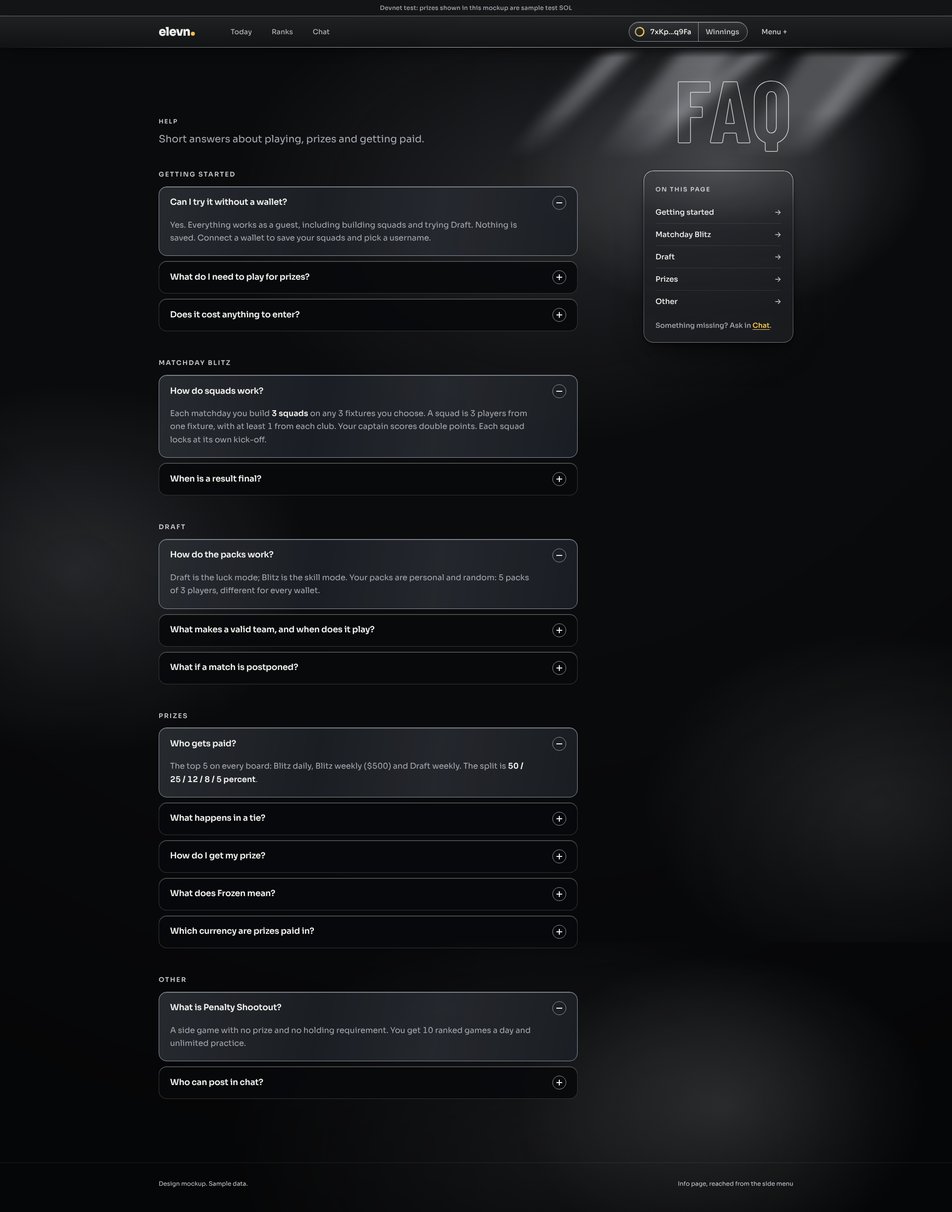
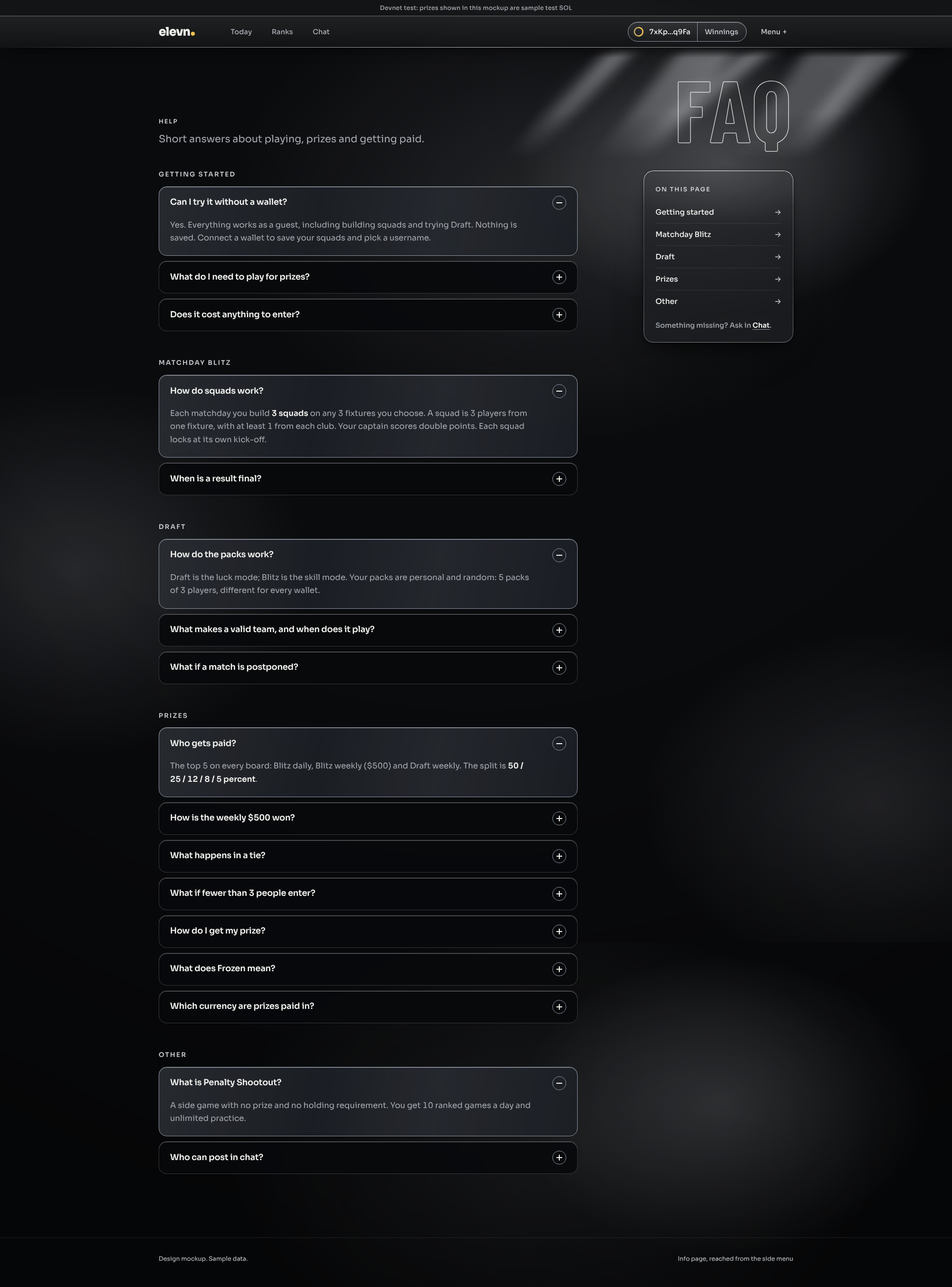
Info pages: apply head review, add side menu
Claude-Session: https://claude.ai/code/session_012GbKymxq8Mwy7J7Kp4CrmR

diff --git a/docs/design/mockups/roadmap.html b/docs/design/mockups/roadmap.html
@@ -2,11 +2,11 @@
 <html lang="en"><head><meta charset="utf-8"><meta name="viewport" content="width=device-width, initial-scale=1">
 <title>Roadmap · elevn mockup</title>
 <link rel="preconnect" href="https://fonts.googleapis.com"><link rel="preconnect" href="https://fonts.gstatic.com" crossorigin>
-<link rel="stylesheet" href="mock.css"><link rel="stylesheet" href="info-pages.css"></head>
+<link rel="stylesheet" href="mock.css"><link rel="stylesheet" href="info-pages.css"><link rel="stylesheet" href="menu.css"><script src="menu.js" defer></script><script src="guest.js" defer></script></head>
 <body>
 <div class="devnet">Devnet test: prizes shown in this mockup are sample test SOL</div>
 <header class="nav"><div class="wrap">
-<a class="logo" href="index.html">elevn<i></i></a>
+<a class="logo" href="home.html">elevn<i></i></a>
 <nav class="links" aria-label="Main"><a href="today.html">Today</a><a href="ranks.html">Ranks</a><a href="chat.html">Chat</a></nav>
 <div class="right"><div class="wchip"><a href="#"><svg width="22" height="22" viewBox="0 0 22 22" role="img" aria-label="Blitz and Draft unlocked"><circle cx="11" cy="11" r="8.5" fill="none" stroke="rgba(255,255,255,.4)" stroke-width="2.5"/><path d="M11 2.5 A8.5 8.5 0 0 1 11 19.5" fill="none" stroke="#f2c14e" stroke-width="2.5"/><path d="M11 19.5 A8.5 8.5 0 0 1 11 2.5" fill="none" stroke="#f2c14e" stroke-width="2.5" stroke-dasharray="26.7" stroke-dashoffset="0" opacity=".55"/></svg><span>7xKp…q9Fa</span></a><a href="winnings.html">Winnings</a></div><a class="menu" href="#">Menu +</a></div>
 </div></header>
@@ -14,9 +14,9 @@
 <div class="rays" aria-hidden="true"><i></i><i></i><i></i><i></i><i></i></div>
 <div class="ph"><div><span class="eyebrow">Where we are</span><p class="lead">The stages in order. No dates yet; each one opens when the one before it is done.</p></div><div class="w"><h1 class="word">Roadmap</h1></div></div>
 <div class="ip-grid"><div class="ip-main"><ol class="rtl" aria-label="Stages">
-<li class="done"><span class="mk"><svg width="26" height="26" viewBox="-13 -13 26 26" fill="none" stroke="currentColor" stroke-width="2.4" stroke-linecap="round" stroke-linejoin="round" aria-hidden="true"><path d="M-7 0.5L-2.5 5 7.5-5"/></svg></span><div class="glass stage"><div class="row"><h2>Blueprint</h2><span class="rs done"><svg width="14" height="14" viewBox="-7 -7 14 14" fill="none" stroke="currentColor" stroke-width="2.2" stroke-linecap="round" stroke-linejoin="round" aria-hidden="true"><path d="M-4.5 0.5L-1.5 3.5 4.5-3"/></svg>Done</span></div><p>Game modes, prizes and rules are settled.</p></div></li><li class="now" aria-current="step"><span class="mk"><svg width="26" height="26" viewBox="-13 -13 26 26" aria-hidden="true"><circle r="4.5" fill="#f2c14e"/><circle r="9" fill="none" stroke="#f2c14e" stroke-width="2"/></svg></span><div class="glass stage"><div class="row"><h2>Design</h2><span class="rs now"><svg width="14" height="14" viewBox="-7 -7 14 14" aria-hidden="true"><circle r="3.4" fill="#0a0b0d"/><circle r="6" fill="none" stroke="#0a0b0d" stroke-width="1.6"/></svg>Now</span></div><p>The look of the whole site, drawn as mockups.</p></div></li><li class="next"><span class="mk"><svg width="26" height="26" viewBox="-13 -13 26 26" aria-hidden="true"><circle r="7" fill="none" stroke="currentColor" stroke-width="2.4"/></svg></span><div class="glass stage"><div class="row"><h2>Build</h2><span class="rs next"><svg width="14" height="14" viewBox="-7 -7 14 14" aria-hidden="true"><circle r="5" fill="none" stroke="currentColor" stroke-width="2"/></svg>Next</span></div><p>Each part is built and tested in turn.</p><ul><li>Foundations</li><li>Matchday Blitz</li><li>Draft</li><li>Penalty Shootout</li><li>Home page</li><li>News</li><li>First-visit tutorial</li></ul></div></li><li class="next"><span class="mk"><svg width="26" height="26" viewBox="-13 -13 26 26" aria-hidden="true"><circle r="7" fill="none" stroke="currentColor" stroke-width="2.4"/></svg></span><div class="glass stage"><div class="row"><h2>Test season on devnet</h2><span class="rs next"><svg width="14" height="14" viewBox="-7 -7 14 14" aria-hidden="true"><circle r="5" fill="none" stroke="currentColor" stroke-width="2"/></svg>Next</span></div><p>Prizes are test SOL on devnet.</p></div></li><li class="next"><span class="mk"><svg width="26" height="26" viewBox="-13 -13 26 26" aria-hidden="true"><circle r="7" fill="none" stroke="currentColor" stroke-width="2.4"/></svg></span><div class="glass stage"><div class="row"><h2>Legal review</h2><span class="rs next"><svg width="14" height="14" viewBox="-7 -7 14 14" aria-hidden="true"><circle r="5" fill="none" stroke="currentColor" stroke-width="2"/></svg>Next</span></div><p>Comes before mainnet.</p></div></li><li class="next"><span class="mk"><svg width="26" height="26" viewBox="-13 -13 26 26" aria-hidden="true"><circle r="7" fill="none" stroke="currentColor" stroke-width="2.4"/></svg></span><div class="glass stage"><div class="row"><h2>Mainnet</h2><span class="rs next"><svg width="14" height="14" viewBox="-7 -7 14 14" aria-hidden="true"><circle r="5" fill="none" stroke="currentColor" stroke-width="2"/></svg>Next</span></div><p>Prizes in real SOL.</p></div></li></ol>
-<div class="later-h"><h2>Later</h2><p>Future ideas. Nothing here has a date.</p></div><ol class="rtl lt" aria-label="Later"><li class="later"><span class="mk"><svg width="22" height="22" viewBox="-13 -13 26 26" aria-hidden="true"><circle r="7" fill="none" stroke="currentColor" stroke-width="2.4" stroke-dasharray="3.2 3.2"/></svg></span><div class="stage"><div class="row"><h2>Notifications</h2><span class="rs later"><svg width="14" height="14" viewBox="-7 -7 14 14" aria-hidden="true"><circle r="5" fill="none" stroke="currentColor" stroke-width="2" stroke-dasharray="2.4 2.4"/></svg>Later</span></div><p>A feature for the future.</p></div></li><li class="later"><span class="mk"><svg width="22" height="22" viewBox="-13 -13 26 26" aria-hidden="true"><circle r="7" fill="none" stroke="currentColor" stroke-width="2.4" stroke-dasharray="3.2 3.2"/></svg></span><div class="stage"><div class="row"><h2>Live predictions</h2><span class="rs later"><svg width="14" height="14" viewBox="-7 -7 14 14" aria-hidden="true"><circle r="5" fill="none" stroke="currentColor" stroke-width="2" stroke-dasharray="2.4 2.4"/></svg>Later</span></div><p>Parked.</p></div></li></ol>
-<div class="keyline" aria-label="Status key"><span><span class="rs done"><svg width="14" height="14" viewBox="-7 -7 14 14" fill="none" stroke="currentColor" stroke-width="2.2" stroke-linecap="round" stroke-linejoin="round" aria-hidden="true"><path d="M-4.5 0.5L-1.5 3.5 4.5-3"/></svg>Done</span></span><span><span class="rs now"><svg width="14" height="14" viewBox="-7 -7 14 14" aria-hidden="true"><circle r="3.4" fill="#0a0b0d"/><circle r="6" fill="none" stroke="#0a0b0d" stroke-width="1.6"/></svg>Now</span></span><span><span class="rs next"><svg width="14" height="14" viewBox="-7 -7 14 14" aria-hidden="true"><circle r="5" fill="none" stroke="currentColor" stroke-width="2"/></svg>Next</span></span><span><span class="rs later"><svg width="14" height="14" viewBox="-7 -7 14 14" aria-hidden="true"><circle r="5" fill="none" stroke="currentColor" stroke-width="2" stroke-dasharray="2.4 2.4"/></svg>Later</span></span></div></div></div>
+<li class="done"><span class="mk"><svg width="26" height="26" viewBox="-13 -13 26 26" fill="none" stroke="currentColor" stroke-width="2.4" stroke-linecap="round" stroke-linejoin="round" aria-hidden="true"><path d="M-7 0.5L-2.5 5 7.5-5"/></svg></span><div class="glass stage"><div class="row"><h2>Blueprint</h2><span class="rs done"><svg width="14" height="14" viewBox="-7 -7 14 14" fill="none" stroke="currentColor" stroke-width="2.2" stroke-linecap="round" stroke-linejoin="round" aria-hidden="true"><path d="M-4.5 0.5L-1.5 3.5 4.5-3"/></svg>Done</span></div><p>Game modes, prizes and rules are settled.</p></div></li><li class="now" aria-current="step"><span class="mk"><svg width="26" height="26" viewBox="-13 -13 26 26" aria-hidden="true"><circle r="4.5" fill="#f2c14e"/><circle r="9" fill="none" stroke="#f2c14e" stroke-width="2"/></svg></span><div class="glass stage"><div class="row"><h2>Design</h2><span class="rs now"><svg width="14" height="14" viewBox="-7 -7 14 14" aria-hidden="true"><circle r="3.4" fill="#0a0b0d"/><circle r="6" fill="none" stroke="#0a0b0d" stroke-width="1.6"/></svg>Now</span></div><p>The look of the whole site, drawn as mockups.</p></div></li><li class="next"><span class="mk"><svg width="26" height="26" viewBox="-13 -13 26 26" aria-hidden="true"><circle r="7" fill="none" stroke="currentColor" stroke-width="2.4"/></svg></span><div class="glass stage"><div class="row"><h2>Build</h2><span class="rs next"><svg width="14" height="14" viewBox="-7 -7 14 14" aria-hidden="true"><circle r="5" fill="none" stroke="currentColor" stroke-width="2"/></svg>Next</span></div><p>Each part is built and tested in turn.</p><ol class="steps"><li>Foundations</li><li>Matchday Blitz</li><li>Draft</li><li>Penalty Shootout</li><li>Home page</li><li>News</li><li>First-visit tutorial</li></ol></div></li><li class="next"><span class="mk"><svg width="26" height="26" viewBox="-13 -13 26 26" aria-hidden="true"><circle r="7" fill="none" stroke="currentColor" stroke-width="2.4"/></svg></span><div class="glass stage"><div class="row"><h2>Test season on devnet</h2><span class="rs next"><svg width="14" height="14" viewBox="-7 -7 14 14" aria-hidden="true"><circle r="5" fill="none" stroke="currentColor" stroke-width="2"/></svg>Next</span></div><p>Prizes are test SOL on devnet.</p></div></li><li class="next"><span class="mk"><svg width="26" height="26" viewBox="-13 -13 26 26" aria-hidden="true"><circle r="7" fill="none" stroke="currentColor" stroke-width="2.4"/></svg></span><div class="glass stage"><div class="row"><h2>Legal review</h2><span class="rs next"><svg width="14" height="14" viewBox="-7 -7 14 14" aria-hidden="true"><circle r="5" fill="none" stroke="currentColor" stroke-width="2"/></svg>Next</span></div><p>Comes before mainnet.</p></div></li><li class="next"><span class="mk"><svg width="26" height="26" viewBox="-13 -13 26 26" aria-hidden="true"><circle r="7" fill="none" stroke="currentColor" stroke-width="2.4"/></svg></span><div class="glass stage"><div class="row"><h2>Mainnet</h2><span class="rs next"><svg width="14" height="14" viewBox="-7 -7 14 14" aria-hidden="true"><circle r="5" fill="none" stroke="currentColor" stroke-width="2"/></svg>Next</span></div><p>Prizes in real SOL.</p></div></li></ol>
+<div class="later-h"><h2>Later</h2><p>Future ideas. Nothing here has a date.</p></div><ol class="rtl lt" aria-label="Later"><li class="later"><span class="mk"><svg width="22" height="22" viewBox="-13 -13 26 26" aria-hidden="true"><circle r="7" fill="none" stroke="currentColor" stroke-width="2.4" stroke-dasharray="3.2 3.2"/></svg></span><div class="stage"><div class="row"><h2>Notifications</h2><span class="rs later"><svg width="14" height="14" viewBox="-7 -7 14 14" aria-hidden="true"><circle r="5" fill="none" stroke="currentColor" stroke-width="2" stroke-dasharray="2.4 2.4"/></svg>Later</span></div><p>A feature for the future.</p></div></li></ol>
+</div></div>
 </main>
 <footer class="foot-note"><div class="wrap"><span>Design mockup. Sample data.</span><span>Info page, reached from the side menu</span></div></footer>
 </body></html>

diff --git a/docs/design/mockups/faq.html b/docs/design/mockups/faq.html
@@ -2,11 +2,11 @@
 <html lang="en"><head><meta charset="utf-8"><meta name="viewport" content="width=device-width, initial-scale=1">
 <title>FAQ · elevn mockup</title>
 <link rel="preconnect" href="https://fonts.googleapis.com"><link rel="preconnect" href="https://fonts.gstatic.com" crossorigin>
-<link rel="stylesheet" href="mock.css"><link rel="stylesheet" href="info-pages.css"></head>
+<link rel="stylesheet" href="mock.css"><link rel="stylesheet" href="info-pages.css"><link rel="stylesheet" href="menu.css"><script src="menu.js" defer></script><script src="guest.js" defer></script></head>
 <body>
 <div class="devnet">Devnet test: prizes shown in this mockup are sample test SOL</div>
 <header class="nav"><div class="wrap">
-<a class="logo" href="index.html">elevn<i></i></a>
+<a class="logo" href="home.html">elevn<i></i></a>
 <nav class="links" aria-label="Main"><a href="today.html">Today</a><a href="ranks.html">Ranks</a><a href="chat.html">Chat</a></nav>
 <div class="right"><div class="wchip"><a href="#"><svg width="22" height="22" viewBox="0 0 22 22" role="img" aria-label="Blitz and Draft unlocked"><circle cx="11" cy="11" r="8.5" fill="none" stroke="rgba(255,255,255,.4)" stroke-width="2.5"/><path d="M11 2.5 A8.5 8.5 0 0 1 11 19.5" fill="none" stroke="#f2c14e" stroke-width="2.5"/><path d="M11 19.5 A8.5 8.5 0 0 1 11 2.5" fill="none" stroke="#f2c14e" stroke-width="2.5" stroke-dasharray="26.7" stroke-dashoffset="0" opacity=".55"/></svg><span>7xKp…q9Fa</span></a><a href="winnings.html">Winnings</a></div><a class="menu" href="#">Menu +</a></div>
 </div></header>
@@ -16,10 +16,10 @@
 <div class="ip-grid"><div class="ip-main">
 <section class="faq-group" aria-labelledby="g-start"><h2 id="g-start">Getting started</h2><div class="faq-list"><details class="qa" open><summary>Can I try it without a wallet?<span class="pm" aria-hidden="true"></span></summary><div class="ans"><p>Yes. Everything works as a guest, including building squads and trying Draft. Nothing is saved. Connect a wallet to save your squads and pick a username.</p></div></details><details class="qa"><summary>What do I need to play for prizes?<span class="pm" aria-hidden="true"></span></summary><div class="ans"><p>Holding <b>150,000 $ELEVN</b> unlocks Matchday Blitz. Holding <b>300,000 in all</b> also unlocks Draft. It is one entry per wallet, however much it holds, and you can play as soon as the wallet holds the tokens.</p></div></details><details class="qa"><summary>Does it cost anything to enter?<span class="pm" aria-hidden="true"></span></summary><div class="ans"><p>No. There is no entry payment. You play free; you hold the token.</p></div></details></div></section>
 <section class="faq-group" aria-labelledby="g-blitz"><h2 id="g-blitz">Matchday Blitz</h2><div class="faq-list"><details class="qa" open><summary>How do squads work?<span class="pm" aria-hidden="true"></span></summary><div class="ans"><p>Each matchday you build <b>3 squads</b> on any 3 fixtures you choose. A squad is 3 players from one fixture, with at least 1 from each club. Your captain scores double points. Each squad locks at its own kick-off.</p></div></details><details class="qa"><summary>When is a result final?<span class="pm" aria-hidden="true"></span></summary><div class="ans"><p>15 minutes after the last match of the day.</p></div></details></div></section>
-<section class="faq-group" aria-labelledby="g-draft"><h2 id="g-draft">Draft</h2><div class="faq-list"><details class="qa" open><summary>How do the packs work?<span class="pm" aria-hidden="true"></span></summary><div class="ans"><p>Draft is the luck mode; Blitz is the skill mode. Your packs are personal and random: 5 packs of 3 players, different for every wallet.</p></div></details><details class="qa"><summary>What makes a valid team, and when does it play?<span class="pm" aria-hidden="true"></span></summary><div class="ans"><p>A five-a-side with at least 1 defender, 1 midfielder and 1 attacker, no goalkeepers, and at most 2 players from any one club. Your captain scores double points. Draft opens on Tuesday, locks at Friday's first kick-off, and scores Friday to Monday.</p></div></details><details class="qa"><summary>What if a match is postponed?<span class="pm" aria-hidden="true"></span></summary><div class="ans"><p>The player is swapped for your highest-valued unused player in the same position. If you do not make the swap yourself, it happens automatically.</p></div></details></div></section>
-<section class="faq-group" aria-labelledby="g-prizes"><h2 id="g-prizes">Prizes</h2><div class="faq-list"><details class="qa" open><summary>Who gets paid?<span class="pm" aria-hidden="true"></span></summary><div class="ans"><p>The top 5 on every board: Blitz daily, Blitz weekly ($500) and Draft weekly. The split is <b>50 / 25 / 12 / 8 / 5 percent</b>.</p></div></details><details class="qa"><summary>What happens in a tie?<span class="pm" aria-hidden="true"></span></summary><div class="ans"><p>More captain points wins. If that is level too, the prize is split.</p></div></details><details class="qa"><summary>How do I get my prize?<span class="pm" aria-hidden="true"></span></summary><div class="ans"><p>Press <b>Collect</b> on <a href="winnings.html">Winnings</a>. Half is yours at once. The other half goes into Locked, and you can withdraw 20% of it once every 24 hours. The timer starts at your first collect and restarts at each withdrawal. Days you miss do not add up.</p></div></details><details class="qa"><summary>What does Frozen mean?<span class="pm" aria-hidden="true"></span></summary><div class="ans"><p>Your wallet holds less than 150,000 $ELEVN. Locked and its timer pause until the wallet holds that much again. Nothing is forfeited.</p></div></details><details class="qa"><summary>Which currency are prizes paid in?<span class="pm" aria-hidden="true"></span></summary><div class="ans"><p>SOL on devnet during the test season.</p></div></details></div></section>
+<section class="faq-group" aria-labelledby="g-draft"><h2 id="g-draft">Draft</h2><div class="faq-list"><details class="qa" open><summary>How do the packs work?<span class="pm" aria-hidden="true"></span></summary><div class="ans"><p>Draft is the luck mode; Blitz is the skill mode. Your packs are personal and random: 5 packs of 3 players, different for every wallet.</p></div></details><details class="qa"><summary>What makes a valid team, and when does it play?<span class="pm" aria-hidden="true"></span></summary><div class="ans"><p>A five-a-side with at least 1 defender, 1 midfielder and 1 attacker, no goalkeepers, and at most 2 players from any one club. Your captain scores double points. Draft opens on Tuesday, locks at Friday's first kick-off, and scores Friday to Monday.</p></div></details><details class="qa"><summary>What if a match is postponed?<span class="pm" aria-hidden="true"></span></summary><div class="ans"><p>If a player's match is postponed or cancelled, the player is swapped for your highest-valued unused player in the same position. If you do not make the swap yourself, it happens automatically. If no unused player in that position is left, the slot scores 0.</p></div></details></div></section>
+<section class="faq-group" aria-labelledby="g-prizes"><h2 id="g-prizes">Prizes</h2><div class="faq-list"><details class="qa" open><summary>Who gets paid?<span class="pm" aria-hidden="true"></span></summary><div class="ans"><p>The top 5 on every board: Blitz daily, Blitz weekly ($500) and Draft weekly. The split is <b>50 / 25 / 12 / 8 / 5 percent</b>.</p></div></details><details class="qa"><summary>How is the weekly $500 won?<span class="pm" aria-hidden="true"></span></summary><div class="ans"><p>Your best 3 daily totals in the week are added up. The Blitz week runs Tuesday to Monday, UK time, and the top 5 are paid.</p></div></details><details class="qa"><summary>What happens in a tie?<span class="pm" aria-hidden="true"></span></summary><div class="ans"><p>More captain points wins. If that is level too, the prize is split.</p></div></details><details class="qa"><summary>What if fewer than 3 people enter?<span class="pm" aria-hidden="true"></span></summary><div class="ans"><p>The pot rolls forward to the next one.</p></div></details><details class="qa"><summary>How do I get my prize?<span class="pm" aria-hidden="true"></span></summary><div class="ans"><p>Press <b>Collect</b> on <a href="winnings.html">Winnings</a>. Half is yours at once. The other half goes into Locked, and you can withdraw 20% of it once every 24 hours. The timer starts at your first collect and restarts at each withdrawal. Days you miss do not add up.</p></div></details><details class="qa"><summary>What does Frozen mean?<span class="pm" aria-hidden="true"></span></summary><div class="ans"><p>Your wallet holds less than 150,000 $ELEVN. Locked and its timer pause until the wallet holds that much again. Nothing is forfeited.</p></div></details><details class="qa"><summary>Which currency are prizes paid in?<span class="pm" aria-hidden="true"></span></summary><div class="ans"><p>SOL on devnet during the test season.</p></div></details></div></section>
 <section class="faq-group" aria-labelledby="g-other"><h2 id="g-other">Other</h2><div class="faq-list"><details class="qa" open><summary>What is Penalty Shootout?<span class="pm" aria-hidden="true"></span></summary><div class="ans"><p>A side game with no prize and no holding requirement. You get 10 ranked games a day and unlimited practice.</p></div></details><details class="qa"><summary>Who can post in chat?<span class="pm" aria-hidden="true"></span></summary><div class="ans"><p>Any connected wallet that holds the tokens.</p></div></details></div></section>
-</div><aside class="ip-side"><nav class="glass jump" aria-label="FAQ groups"><span class="eyebrow">On this page</span><ul><li><a href="#g-start">Getting started</a></li><li><a href="#g-blitz">Matchday Blitz</a></li><li><a href="#g-draft">Draft</a></li><li><a href="#g-prizes">Prizes</a></li><li><a href="#g-other">Other</a></li></ul><p class="small muted">Something missing? Ask in <a href="chat.html" style="color:var(--accent);font-weight:600;text-decoration:underline;text-underline-offset:3px">Chat</a>.</p></nav></aside></div>
+</div><aside class="ip-side"><nav class="glass jump" aria-label="FAQ groups"><span class="eyebrow">On this page</span><ul><li><a href="#g-start">Getting started</a></li><li><a href="#g-blitz">Matchday Blitz</a></li><li><a href="#g-draft">Draft</a></li><li><a href="#g-prizes">Prizes</a></li><li><a href="#g-other">Other</a></li></ul><p class="small muted">Something missing? Ask in <a class="txl" href="chat.html">Chat</a>.</p></nav></aside></div>
 </main>
 <footer class="foot-note"><div class="wrap"><span>Design mockup. Sample data.</span><span>Info page, reached from the side menu</span></div></footer>
 </body></html>

diff --git a/docs/design/mockups/about.html b/docs/design/mockups/about.html
@@ -2,11 +2,11 @@
 <html lang="en"><head><meta charset="utf-8"><meta name="viewport" content="width=device-width, initial-scale=1">
 <title>About · elevn mockup</title>
 <link rel="preconnect" href="https://fonts.googleapis.com"><link rel="preconnect" href="https://fonts.gstatic.com" crossorigin>
-<link rel="stylesheet" href="mock.css"><link rel="stylesheet" href="info-pages.css"></head>
+<link rel="stylesheet" href="mock.css"><link rel="stylesheet" href="info-pages.css"><link rel="stylesheet" href="menu.css"><script src="menu.js" defer></script><script src="guest.js" defer></script></head>
 <body>
 <div class="devnet">Devnet test: prizes shown in this mockup are sample test SOL</div>
 <header class="nav"><div class="wrap">
-<a class="logo" href="index.html">elevn<i></i></a>
+<a class="logo" href="home.html">elevn<i></i></a>
 <nav class="links" aria-label="Main"><a href="today.html">Today</a><a href="ranks.html">Ranks</a><a href="chat.html">Chat</a></nav>
 <div class="right"><div class="wchip"><a href="#"><svg width="22" height="22" viewBox="0 0 22 22" role="img" aria-label="Blitz and Draft unlocked"><circle cx="11" cy="11" r="8.5" fill="none" stroke="rgba(255,255,255,.4)" stroke-width="2.5"/><path d="M11 2.5 A8.5 8.5 0 0 1 11 19.5" fill="none" stroke="#f2c14e" stroke-width="2.5"/><path d="M11 19.5 A8.5 8.5 0 0 1 11 2.5" fill="none" stroke="#f2c14e" stroke-width="2.5" stroke-dasharray="26.7" stroke-dashoffset="0" opacity=".55"/></svg><span>7xKp…q9Fa</span></a><a href="winnings.html">Winnings</a></div><a class="menu" href="#">Menu +</a></div>
 </div></header>
@@ -14,17 +14,17 @@
 <div class="rays" aria-hidden="true"><i></i><i></i><i></i><i></i><i></i></div>
 <div class="ph"><div><span class="eyebrow">What is elevn</span><p class="lead">Fantasy football with a result at full time.</p></div><div class="w"><h1 class="word">About</h1></div></div>
 <div class="ip-grid"><div class="ip-narrow">
-<div class="prose"><p>elevn is fantasy football where the result lands at full time, not at the end of a long season. There are two modes, Matchday Blitz and Draft, with daily and weekly prizes paid to the top 5 on every board. Access is token-gated on Solana: you hold $ELEVN to play, and you pay no entry fee. The test season runs on devnet, so prizes are in test SOL.</p></div>
+<div class="prose"><p>elevn is fantasy football where the result lands at full time, not at the end of a long season. There are two modes, Matchday Blitz and Draft, with daily and weekly prizes paid to the top 5 on every board. Access is token-gated on Solana: you hold $ELEVN and play free. The test season runs on devnet, so prizes are in test SOL.</p></div>
 </div></div>
 <h2 class="sec-h">Two modes</h2>
 <div class="modes2">
-<article class="glass modecard"><span class="chip-tag tag">Skill mode</span><h3 class="score name">Blitz</h3><p><b>Matchday Blitz</b> is the main mode. Pick 3 squads on any 3 fixtures of the day and watch them score live. Each squad locks at its own kick-off, and the daily prize is paid after the last match.</p><ul class="facts"><li>3 squads of 3 players</li><li>Captain scores double</li><li>Daily board and a $500 weekly prize</li></ul></article>
+<article class="glass modecard"><span class="chip-tag tag">Skill mode</span><h3 class="score name">Blitz</h3><p><b>Matchday Blitz</b> is the main mode. Pick 3 squads on any 3 fixtures of the day and watch them score live. Each squad locks at its own kick-off, and the daily prize can be collected 15 minutes after the day's last match.</p><ul class="facts"><li>3 squads of 3 players</li><li>Captain scores double</li><li>Daily board and a $500 weekly prize</li></ul></article>
 <article class="glass modecard"><span class="chip-tag tag">Luck mode</span><h3 class="score name">Draft</h3><p><b>Weekly Draft</b> deals you 5 personal, random packs of 3 players. Choose a five-a-side from them and let it score from Friday to Monday.</p><ul class="facts"><li>5 packs, a five-a-side team</li><li>Captain scores double</li><li>One weekly board, top 5 paid</li></ul></article>
 </div>
 <h2 class="sec-h">Launch leagues</h2>
-<ul class="leagues"><li>Premier League</li><li>La Liga</li><li>Bundesliga</li></ul>
+<p class="leagues">Premier League · La Liga · Bundesliga</p>
 <h2 class="sec-h">Links</h2>
-<div class="glass linkrow"><a class="btn btn-line btn-sm" href="#">Follow on X</a><div class="contract"><span class="chip-tag">Placeholder</span><span class="small muted">Contract address</span><code>To be added at launch</code></div></div>
+<div class="linkrow"><a class="btn btn-line btn-sm" href="#">Follow on X</a><p>Contract address: to be added at launch</p></div>
 </main>
 <footer class="foot-note"><div class="wrap"><span>Design mockup. Sample data.</span><span>Info page, reached from the side menu</span></div></footer>
 </body></html>

diff --git a/docs/design/mockups/info-pages.css b/docs/design/mockups/info-pages.css
@@ -46,11 +46,9 @@
 .modecard .facts { list-style: none; padding: 0; margin: 4px 0 0; }
 .modecard .facts li { padding: 12px 0; border-top: 1px solid var(--line); font-size: 15px; color: var(--text); }
 .sec-h { font-size: 13px; font-weight: 600; letter-spacing: .16em; text-transform: uppercase; color: var(--steel); margin: 64px 0 16px; line-height: 1.2; }
-.leagues { display: flex; flex-wrap: wrap; gap: 10px; list-style: none; padding: 0; margin: 0; }
-.leagues li { display: inline-flex; align-items: center; min-height: 44px; padding: 0 20px; border-radius: 999px; border: 1px solid var(--edge-control); background: var(--row); font-size: 15px; font-weight: 600; }
-.linkrow { display: grid; grid-template-columns: auto minmax(0, 1fr); gap: 16px; align-items: center; border-radius: 20px; padding: 20px 24px; }
-.linkrow .contract { display: flex; align-items: center; gap: 12px; flex-wrap: wrap; min-width: 0; padding: 10px 14px; border: 1px dashed var(--edge-control); border-radius: 12px; background: var(--row); }
-.linkrow .contract code { font-family: ui-monospace, "SFMono-Regular", Menlo, Consolas, monospace; font-size: 14px; color: var(--steel); overflow-wrap: anywhere; }
+.leagues { font-size: 20px; font-weight: 600; letter-spacing: -.01em; color: var(--text); }
+.linkrow { display: flex; align-items: center; gap: 20px; flex-wrap: wrap; padding: 20px 0; border-top: 1px solid var(--line); border-bottom: 1px solid var(--line); }
+.linkrow p { color: var(--muted); font-size: 16px; }
 .chip-tag { display: inline-flex; align-items: center; height: 24px; padding: 0 10px; border-radius: 999px; border: 1px solid var(--edge-control); font-size: 12px; font-weight: 700; letter-spacing: .08em; text-transform: uppercase; color: var(--steel); white-space: nowrap; }
 
 /* ---------- Roadmap ---------- */
@@ -87,8 +85,6 @@
 .rtl.lt > li { grid-template-columns: 56px minmax(0, 1fr); padding-bottom: 14px; }
 .rtl.lt > li::before { display: none; }
 .rtl.lt > li .mk { justify-self: center; }
-.keyline { margin-top: 32px; display: flex; flex-wrap: wrap; gap: 10px 20px; font-size: 14px; color: var(--muted); }
-.keyline span { display: inline-flex; align-items: center; gap: 8px; }
 
 @media (max-width: 1100px) {
   .ip-main, .ip-narrow { grid-column: 1 / -1; }
@@ -118,3 +114,9 @@
   .rtl.lt > li { grid-template-columns: 40px minmax(0, 1fr); }
   .rtl.lt .mk { margin: 0; width: 32px; height: 32px; }
 }
+
+.txl { color: var(--text); font-weight: 600; text-decoration: underline; text-decoration-color: var(--edge-control); text-underline-offset: 3px; }
+.txl:hover { text-decoration-color: var(--steel); }
+.stage ol.steps { list-style: none; counter-reset: st; padding: 0; margin: 16px 0 0; }
+.stage ol.steps li { counter-increment: st; display: flex; gap: 14px; }
+.stage ol.steps li::before { content: counter(st); color: var(--accent); font-weight: 700; min-width: 16px; }

diff --git a/docs/design/LESSONS.md b/docs/design/LESSONS.md
@@ -168,3 +168,7 @@ Reporting
   window, not only in the opening screenshot.
 - Shared bug for the lead: in `mock.css` the reduced-motion rule for `.rays i` loses to the
   `:nth-child` rules above it, so the rays still drift under reduced motion on every page.
+
+## 2026-11-18 · info-pages agent · review changes
+- Changed: "paid" became "collected" in About; Live predictions removed from the public roadmap; panel-inside-panel and monospace removed; league pills made plain text; gold inline link made a normal link; status key dropped; Build list numbered; two FAQ items and the cancelled-match rule added; side menu wired in.
+- Rule for next time: public pages never promise a parked item, never say prizes are "paid"/"sent" (winners collect), and use no inline styles or fonts outside Sora and Barlow Condensed.
